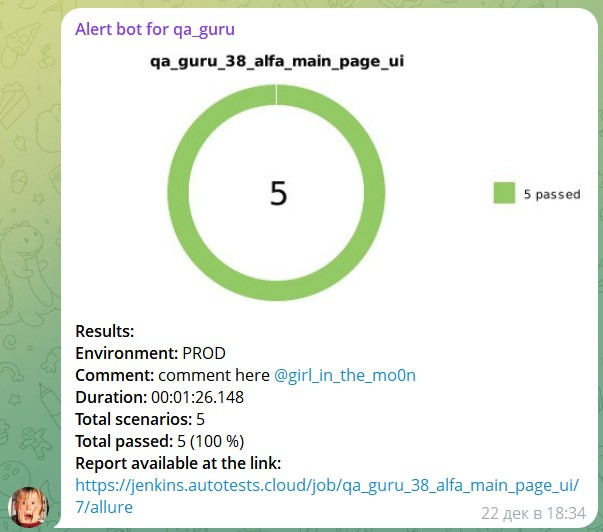
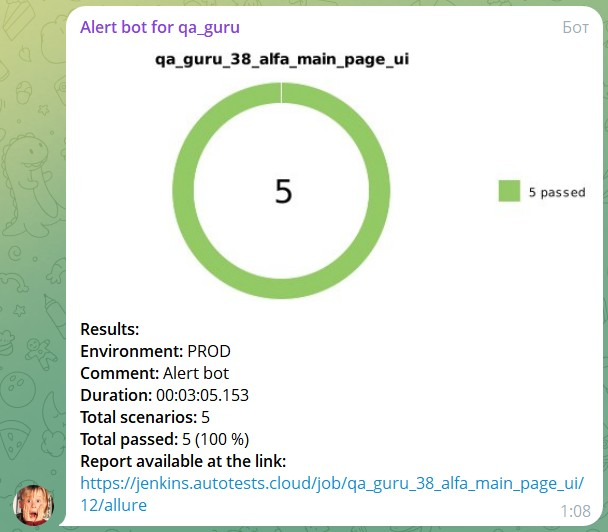
changed some files

diff --git a/README.md b/README.md
@@ -1,12 +1,12 @@
 # Проект автоматизации тестирования для [Альфа-Банка](https://alfabank.ru/)
 ## Содержание:
 
-- [Использованный стек технологий](#computer-использованный-стек-технологий)
-- [Запуск тестов из терминала](#arrow_forward-запуск-тестов-из-терминала)
+- [Использованный стек технологий](#использованный-стек-технологий)
+- [Запуск тестов из терминала](#запуск-тестов-из-терминала)
 - [Сборка в Jenkins](#сборка-в-jenkins)
 - [Allure Report](#пример-allure-отчета)
-- [Уведомления о результатах тестов в Telegram с использованием бота](#уведомления-в-telegram-с-использованием-бота)
-- [Видео примера запуска тестов в Selenoid](#-видео-примера-запуска-теста-в-selenoid)
+- [Уведомления о результатах тестов в Telegram с использованием бота](#уведомления-о-результатах-тестов-в-telegram-с-использованием-бота)
+- [Видео примера запуска тестов в Selenoid](#видео-примера-запуска-теста-в-selenoid)
 
 ## Использованный стек технологий
 
@@ -44,7 +44,7 @@ gradle clean alfamainpage_test
 
 ## <img width="4%" style="vertical-align:middle" title="Allure Report" src="media/logo/Allure-Report.svg"> Пример Allure отчета
 
-[Allure отчет](https://jenkins.autotests.cloud/job/qa_guru_38_alfa_main_page_ui/7/allure/)
+[Allure отчет](https://jenkins.autotests.cloud/job/qa_guru_38_alfa_main_page_ui/12/allure/)
 ### *Основная страница*
 <p align="center">
 <img title="Allure Report" src="media/screens/Allure%20отчет.jpg">
@@ -61,7 +61,7 @@ gradle clean alfamainpage_test
 <img width="70%" title="Telegram Notifications" src="media/screens/Telegram%20bot.jpg">
 </p>
 
-### <img width="4%" style="vertical-align:middle" title="Selenoid" src="media/logo/Selenoid.svg"> Видео примера запуска тестов в Selenoid
+### <img width="4%" style="vertical-align:middle" title="Selenoid" src="media/logo/Selenoid.svg"> Видео примера запуска теста в Selenoid
 
 <p align="center">
   <img title="Selenoid Video" src="media/screens/Видео%20Selenoid.gif">
